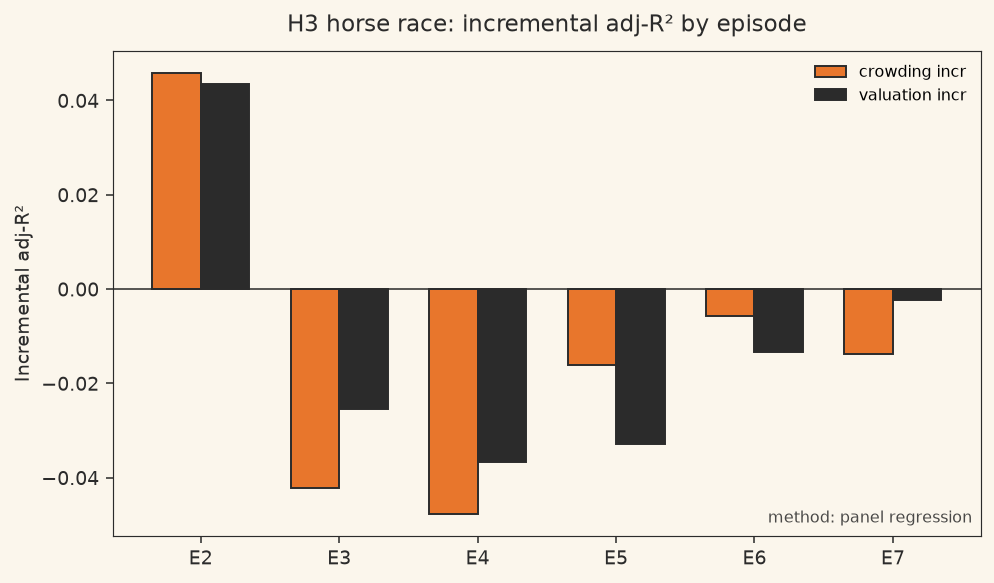
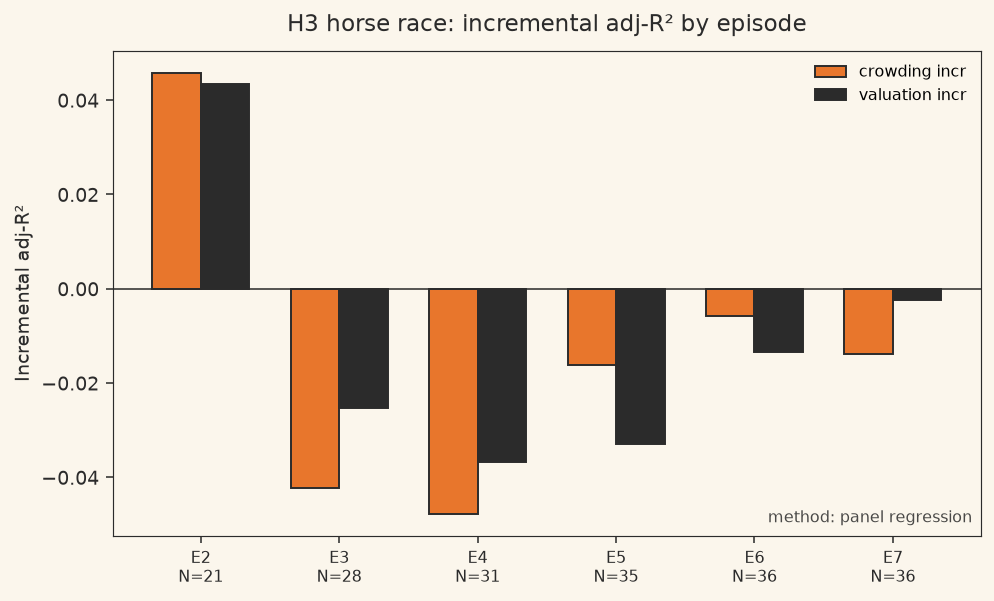
P7 review: SUPERSEDED T003-T008, exhibit fixes, desk monitoring flips
Retire T003–T008 as SUPERSEDED_BY newer IDs (FDR BH numbers unchanged).
fig03: SOX/SPX primary, muted descriptive bars, N events/bears, dashed
thresholds. fig06: wild + CR2 CIs; Holm/joint Wald caption. Addendum:
replace 2× builders rule with beta-neutral z and L(5)/beta from daily_desk.
Tag flush-or-regime-v1 deleted; recreate on main after merge.

diff --git a/src/studies/p7_fdr_and_exhibits.py b/src/studies/p7_fdr_and_exhibits.py
@@ -74,6 +74,7 @@ def classify_row(row: pd.Series) -> str:
         return "exploratory"
     if tid.startswith("H3_REVIEW"):
         return "exploratory"
+    # SUPERSEDED_BY keeps the placeholder in the pre-registered ledger (no p)
     # Pre-registered family (includes NOT_RUN / underpowered / PRIOR_ONLY)
     return "preregistered"
 
@@ -99,6 +100,8 @@ def run_fdr(q: float = 0.10) -> dict:
         if np.isfinite(r["raw_p_num"]):
             return ""
         st = str(r["status"])
+        if st.startswith("SUPERSEDED_BY"):
+            return st  # placeholder retired; FDR family unchanged (no p)
         if st in ("NOT_RUN", "NOT_RUN_UNDERPOWERED"):
             return f"{st}: {r.get('notes', '') or r.get('description', '')}"
         if st in ("PRIOR_ONLY",):
@@ -199,13 +202,13 @@ def make_exhibits() -> list[Path]:
     ax.bar(labels, vals, color=ORANGE, edgecolor=DARK)
     ax.axhline(0, color=DARK, lw=0.8)
     ax.set_ylabel("5 Nov 2026 return (%)")
-    _style(ax, "5 Nov ETF moves (Yahoo = IBKR)", "descriptive frequency")
+    _style(ax, "5 Nov ETF moves (Yahoo = IBKR; N=1 day)", "descriptive frequency")
     save(fig, "fig01_etf_nov5.png")
 
     # 2. Builder vs supplier EW
     fig, ax = plt.subplots(figsize=(7, 4))
     ax.bar(
-        ["Builders EW", "Suppliers EW", "Neocloud EW"],
+        ["Builders EW\n(N=6)", "Suppliers EW\n(N=16 note book)", "Neocloud EW\n(N=3)"],
         [-2.98, -13.53, -13.91],
         color=[DARK, ORANGE, ORANGE],
         edgecolor=DARK,
@@ -215,27 +218,44 @@ def make_exhibits() -> list[Path]:
     _style(ax, "Builder–supplier gap larger than the note printed", "descriptive frequency")
     save(fig, "fig02_builder_supplier_ew.png")
 
-    # 3. H1b further-DD rates
-    h1b = pd.read_csv(EXHIBITS / "h1b_forward_summary.csv") if (EXHIBITS / "h1b_forward_summary.csv").exists() else None
-    fig, ax = plt.subplots(figsize=(7, 4))
-    if h1b is not None and "series" in h1b.columns:
-        # flexible column names
-        rate_col = next((c for c in h1b.columns if "rate" in c.lower() or "dd10" in c.lower()), None)
-        if rate_col is None and "n_dd10" in h1b.columns and "n" in h1b.columns:
-            h1b = h1b.copy()
-            h1b["rate"] = h1b["n_dd10"] / h1b["n"]
-            rate_col = "rate"
-        if rate_col:
-            ax.bar(h1b["series"], h1b[rate_col] * 100, color=ORANGE, edgecolor=DARK)
-            ax.axhline(25, color=DARK, ls="--", lw=0.8, label="≤25% patience")
-            ax.axhline(50, color=JUDGMENT, ls="--", lw=0.8, label="≥50% another leg")
-            ax.legend(frameon=False, fontsize=8)
-    else:
-        ax.bar(["SPX", "SOX", "IXIC"], [23.8, 40.0, 40.0], color=ORANGE, edgecolor=DARK)
-        ax.axhline(25, color=DARK, ls="--", lw=0.8)
-        ax.axhline(50, color=JUDGMENT, ls="--", lw=0.8)
+    # 3. H1b further-DD rates — SOX/SPX primary; others muted descriptive
+    h1b = pd.read_csv(EXHIBITS / "h1b_forward_summary.csv")
+    ep = pd.read_csv(EXHIBITS / "h1b_episodes.csv")
+    n_bear = ep.groupby("series").size().to_dict()
+    order = ["SPX", "SOX", "SMH", "SOXX", "IXIC"]
+    h1b = h1b.set_index("series").reindex(order).reset_index()
+    fig, ax = plt.subplots(figsize=(8, 4.5))
+    colors = []
+    for s in h1b["series"]:
+        if s in ("SOX", "SPX"):
+            colors.append(ORANGE if s == "SOX" else DARK)
+        else:
+            colors.append("#C8C0B4")  # muted cream-grey
+    rates = h1b["rate"] * 100
+    bars = ax.bar(h1b["series"], rates, color=colors, edgecolor=DARK)
+    for bar, (_, row) in zip(bars, h1b.iterrows()):
+        n_ev = int(row["n"])
+        n_bm = int(n_bear.get(row["series"], 0))
+        label = "primary" if row["series"] in ("SOX", "SPX") else "descriptive"
+        ax.text(
+            bar.get_x() + bar.get_width() / 2,
+            bar.get_height() + 1.2,
+            f"N={n_ev} ev\n{n_bm} bears\n({label})",
+            ha="center",
+            va="bottom",
+            fontsize=7,
+            color=DARK if row["series"] in ("SOX", "SPX") else "#8A8074",
+        )
+    ax.axhline(25, color="#5A5A5A", ls="--", lw=1.2, label="≤25% patience (dashed)")
+    ax.axhline(50, color="#B85A2A", ls="--", lw=1.2, label="≥50% another leg (dashed)")
+    ax.set_ylim(0, max(rates.max() + 18, 60))
+    ax.legend(frameon=False, fontsize=8, loc="upper right")
     ax.set_ylabel("Further 10% DD within 63d (%)")
-    _style(ax, "H1b deep-DD cluster continuation rates", "conditional frequency")
+    _style(
+        ax,
+        "H1b deep-DD continuation — SOX vs SPX primary (N on bars)",
+        "conditional frequency",
+    )
     save(fig, "fig03_h1b_continuation.png")
 
     # 4. H3 Shapley
@@ -245,7 +265,7 @@ def make_exhibits() -> list[Path]:
     pivot.plot(kind="bar", ax=ax, color=[DARK, ORANGE, "#C45A1A"], edgecolor=DARK)
     ax.set_ylabel("Shapley R²")
     ax.legend(frameon=False, title="")
-    _style(ax, "H3 Shapley R² — layer dominates E5–E7", "panel regression")
+    _style(ax, "H3 Shapley R² — layer dominates E5–E7 (complete-case N≈35–36)", "panel regression")
     save(fig, "fig04_h3_shapley.png")
 
     # 5. H3 incremental adj-R2 horse race
@@ -263,20 +283,46 @@ def make_exhibits() -> list[Path]:
     ax.axhline(0, color=DARK, lw=0.8)
     ax.legend(frameon=False, fontsize=8)
     ax.set_ylabel("Incremental adj-R²")
+    ax.set_xticklabels(
+        [f"{r.episode}\nN={int(r.n_complete)}" for r in sub.itertuples()], fontsize=8
+    )
     _style(ax, "H3 horse race: incremental adj-R² by episode", "panel regression")
     save(fig, "fig05_h3_horse_race.png")
 
-    # 6. H4 slope × E7 interactions
+    # 6. H4 slope × E7 interactions — wild + CR2 CIs
     inter = pd.read_csv(EXHIBITS / "h4_slope_interactions_ci.csv")
-    fig, ax = plt.subplots(figsize=(9, 5))
+    inter = inter.copy()
+    inter["ci95_lo_cr2"] = inter["coef"] - 1.96 * inter["se_cr2"]
+    inter["ci95_hi_cr2"] = inter["coef"] + 1.96 * inter["se_cr2"]
+    fig, ax = plt.subplots(figsize=(9.5, 5.5))
     y = np.arange(len(inter))
-    ax.hlines(y, inter["ci95_lo_pct"], inter["ci95_hi_pct"], color=DARK, lw=1)
-    ax.plot(inter["coef"], y, "o", color=ORANGE, markersize=7)
+    ax.hlines(
+        y - 0.12,
+        inter["ci95_lo_pct"],
+        inter["ci95_hi_pct"],
+        color=ORANGE,
+        lw=1.6,
+        label="wild-boot 95% CI",
+    )
+    ax.hlines(
+        y + 0.12,
+        inter["ci95_lo_cr2"],
+        inter["ci95_hi_cr2"],
+        color=DARK,
+        lw=1.2,
+        label="CR2 95% CI",
+    )
+    ax.plot(inter["coef"], y, "o", color=ORANGE, markersize=7, zorder=3)
     ax.axvline(0, color=DARK, lw=0.8)
     ax.set_yticks(y)
     ax.set_yticklabels(inter["interaction"], fontsize=8)
-    ax.set_xlabel("Slope × E7 coefficient")
-    _style(ax, "H4 slope×E7 interactions (wild-boot 95% CI)", "panel regression")
+    ax.set_xlabel("Slope × E7 coefficient (N=72 stacked; 11 df)")
+    ax.legend(frameon=False, fontsize=8, loc="lower right")
+    _style(
+        ax,
+        "H4 slope×E7 — Holm: no interaction @5%; joint Wald rejects (BH p=0.011)",
+        "panel regression",
+    )
     save(fig, "fig06_h4_interactions.png")
 
     # 7. Layer taxonomy (JUDGMENT)
@@ -297,7 +343,8 @@ def make_exhibits() -> list[Path]:
     ax.axhline(1.0, color=DARK, ls="--", lw=0.8)
     ax.set_xlabel("q (sessions)")
     ax.set_ylabel("Variance ratio")
-    _style(ax, "H2 Lo–MacKinlay VR (hetero-robust z* non-reject)", "event study")
+    n_vr = int(vr["n"].iloc[0]) if "n" in vr.columns else 965
+    _style(ax, f"H2 Lo–MacKinlay VR (hetero z*; N={n_vr} days; CD non-reject)", "event study")
     save(fig, "fig08_h2_variance_ratio.png")
 
     # 9. H2 forward net returns
@@ -340,7 +387,13 @@ def make_exhibits() -> list[Path]:
     ax.scatter(troughs["trough_date"], troughs["L5"], c=colors, edgecolors=DARK, s=40)
     ax.axhline(0, color=DARK, lw=0.8)
     ax.set_ylabel("L(5)")
-    _style(ax, "H5 L(5) at troughs (dark=train, orange=OOS) — PRIOR ONLY", "event study")
+    n_tr = int((troughs["walk_forward_split"] == "train").sum())
+    n_oos = int((troughs["walk_forward_split"] == "oos").sum())
+    _style(
+        ax,
+        f"H5 L(5) troughs (dark=train N={n_tr}, orange=OOS N={n_oos}) — PRIOR ONLY",
+        "event study",
+    )
     save(fig, "fig11_h5_L5_troughs.png")
 
     # 12. Outcomes scorecard

diff --git a/docs/addendum_6nov_calls.md b/docs/addendum_6nov_calls.md
@@ -41,13 +41,16 @@ Full magnitude table: `docs/gap_diagnosis.md` §6. Kill log: `outputs/killed_hyp
 
 **H1 / Call 5.** Classification settles the transfer question before forward returns. Deep-DD history: coin-flip next quarter, strong following year for SOX — not a base-rate for patience from the S&P first-shock cell.
 
-### Monitoring flips (operational; not H5-validated)
+### Monitoring flips (operational; H5 PRIOR ONLY / untested)
 
-- Suppliers &gt;2× builders over first five up days → flush bias; builders lead → thesis bias
-- Supplier–hyperscaler 21d corr &gt;0.8 rising together vs &lt;0.4
-- SOXX 5 Nov low 130.74 intraday / 131.90 close (split-adjusted)
-- CRWV 2032 notes &gt;85 vs &lt;70; loan auction 19 Nov &gt;90 vs &lt;80
-- Texas scope; S&P reclaim 7,500–7,600 vs ~6,618; VIX &lt;22 vs &gt;35; Dec FOMC
+Retired: “suppliers &gt;2× builders over the first five up days” — with a trailing beta ratio ≈2.3 that rule fires on almost any up market.
+
+Use the daily desk instead (`python -m src.monitor.daily_desk`, prior US close, before 5pm HKT):
+
+- **Beta-neutral spread z** (causal σ through t−1): ≤ −2.5 ≈ H2-style extreme; near 0 = no residual seesaw
+- **L(5) / trailing supplier–builder beta ratio**: L(5)&gt;0 after a confirmed cum-spread trough = suppliers leading on a beta-adjusted rebound window; L(5)&lt;0 = builders leading
+- Still watch: supplier–hyperscaler 21d corr &gt;0.8 rising together vs &lt;0.4; CRWV 2032 notes &gt;85 vs &lt;70; loan auction 19 Nov; Texas scope; S&P reclaim 7,500–7,600; VIX &lt;22 vs &gt;35; Dec FOMC
+- SOXX 5 Nov low 130.74 intraday / 131.90 close (split-adjusted) — reference level only
 
 ### Cross-section corrections (P1)
 
